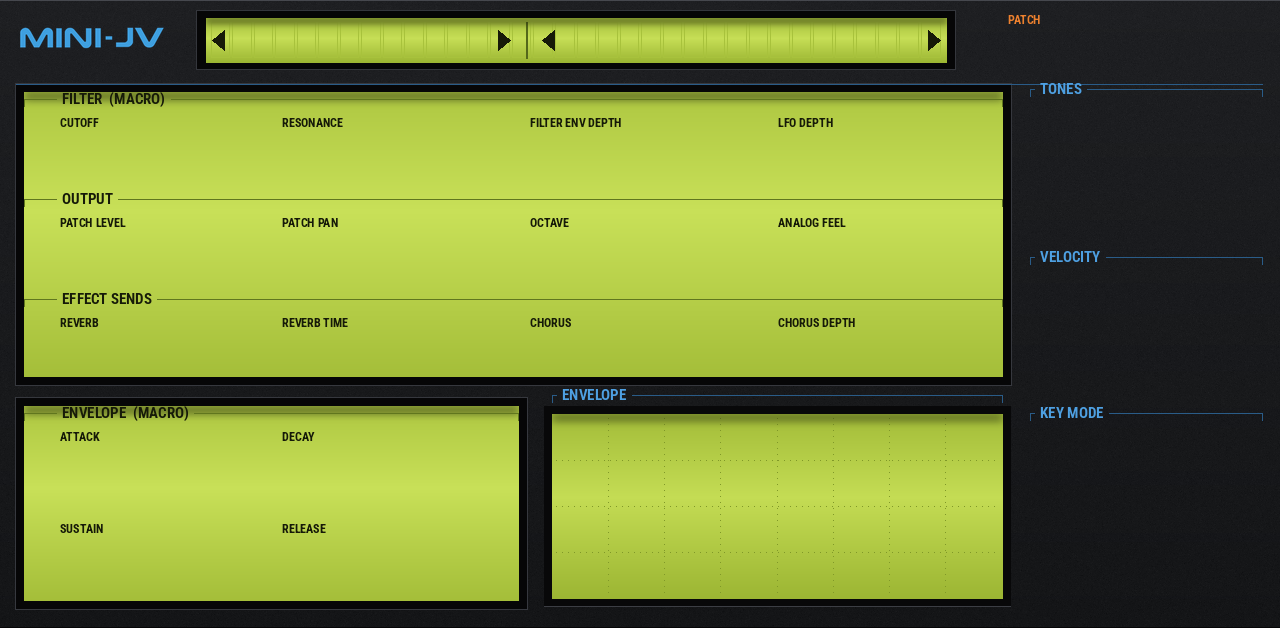
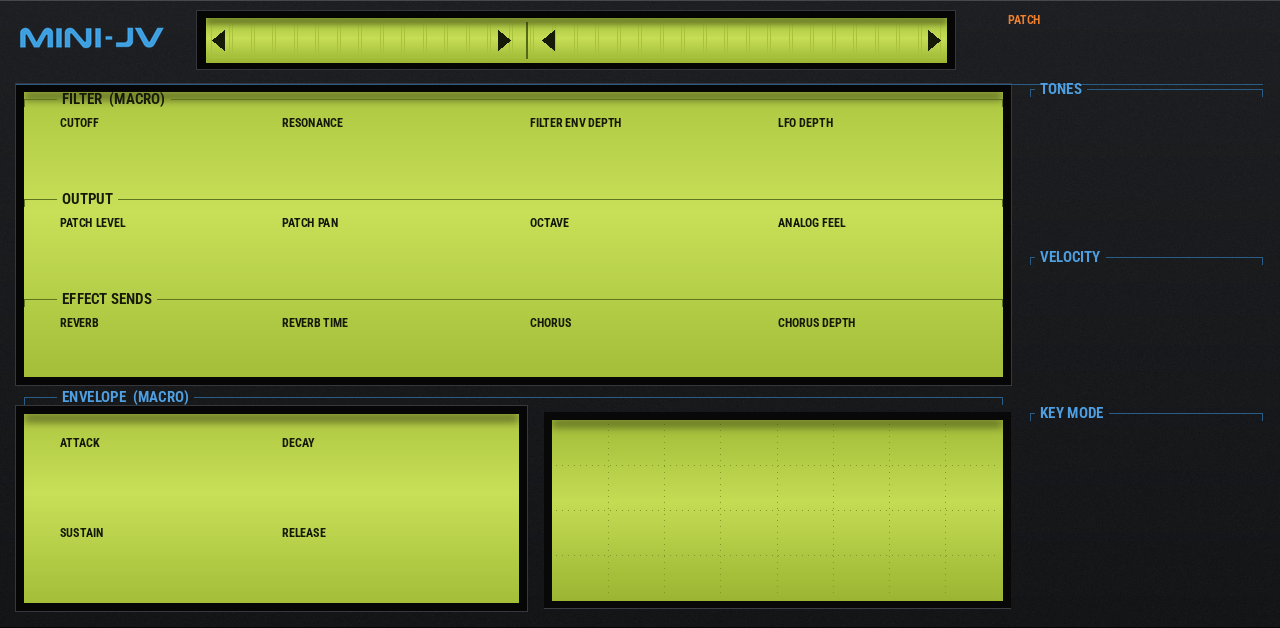
PLAY: one ENVELOPE rule across the macro cells and the ADSR
Claude-Session: https://claude.ai/code/session_01CpoP2rxdAgnEQiaAx5dpUz

diff --git a/tools/skin_pages.py b/tools/skin_pages.py
@@ -194,7 +194,8 @@ class Page:
         self.kids.append(tui.button(key, key, on, off, "%d %d %d %d" % (x, y, w, h), focus="No"))
 
     def envelope_window(self, x0, y0, x1, y1, title, data, name, mid=False, sample=None):
-        self.header(x0, x1, y0 - 14, title)
+        if title:
+            self.header(x0, x1, y0 - 14, title)
         art.window(self.bg, x0, y0, x1, y1, grid=(8, 4), mid=mid)
         self.kids.append(tui.entry(name, "Envelope", data, "%d %d %d %d" % (x0, y0, x1 - x0, y1 - y0), focus="Yes"))
         if sample:
@@ -276,13 +277,13 @@ def play_page():
     # macro envelope: four sliders (Q-Link block) beside the live ADSR
     # bottom row: the envelope macros (2 x 2 cells, a Q-Link block) and the live ADSR, side by side at the same height
     EW = 232
-    p.header(X0 + 8, 518, 418, "ENVELOPE  (MACRO)", q=True)
+    p.header(X0 + 8, X1 - 8, 402, "ENVELOPE  (MACRO)", q=True)   # one rule over both the macro cells and the ADSR
     env = [("macro_attack", "ATTACK", .1), ("macro_decay", "DECAY", .45), ("macro_sustain", "SUSTAIN", .6), ("macro_release", "RELEASE", .35)]
     for i, (k, n, s_) in enumerate(env):
         r, c = divmod(i, 2)
-        p.slider(k, col(c, EW), 430 + r * 92, EW, n, s_)
-    p.qlink_group((X0, 402, 526, 604), [e[0] for e in env])
-    p.envelope_window(552, 414, 1002, 598, "ENVELOPE", tui.adsr_env(*[e[0] for e in env], name="macro env"), "macro env",
+        p.slider(k, col(c, EW), 436 + r * 90, EW, n, s_)
+    p.qlink_group((X0, 410, 526, 606), [e[0] for e in env])
+    p.envelope_window(552, 420, 1002, 600, None, tui.adsr_env(*[e[0] for e in env], name="macro env"), "macro env",
                       sample=[(0, 0), (.12, 1), (.35, .6), (.7, .6), (.92, 0)])
     # right column: tone on/off, velocity switch, key mode (screen only)
     tone_switches(p, RX, 104)
